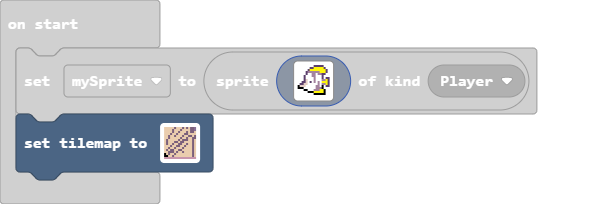
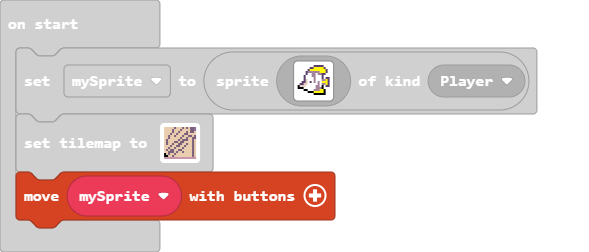
i allowed mysprite to move

diff --git a/main.ts b/main.ts
@@ -34,3 +34,4 @@ tiles.setTilemap(tiles.createTilemap(hex`100010000707070707060707070607060706060
     . . . . 2 . . . . . . . . . 2 . 
     . . . . . . . . . . . . . . . . 
     `, [myTiles.transparency16,sprites.builtin.coral0,sprites.builtin.oceanSand0,myTiles.tile1,myTiles.tile3,sprites.builtin.oceanDepths4,sprites.builtin.oceanDepths0,myTiles.tile4], TileScale.Sixteen))
+controller.moveSprite(mySprite)
